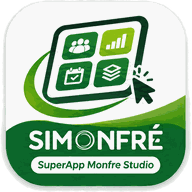
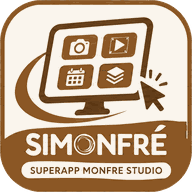
Add files via upload

diff --git a/index.html b/index.html
@@ -7,14 +7,14 @@
 <meta name="description" content="Nota digital Monfre Studio, Lamongan. www.monfrestudio.com">
 <meta property="og:title" content="Nota Digital Monfre Studio">
 <meta property="og:description" content="Nota digital Monfre Studio, Lamongan. www.monfrestudio.com">
-<meta property="og:image" content="https://si-monfre.github.io/icon.png?v=2">
+<meta property="og:image" content="https://si-monfre.github.io/icon.png?v=3">
 <meta property="og:type" content="website">
 <meta property="og:site_name" content="Monfre Studio">
 <meta name="theme-color" content="#8a5a2b">
[1 lines of base64/hex data omitted]
-<link rel="icon" type="image/png" sizes="192x192" href="icon-192.png?v=2">
-<link rel="icon" type="image/png" sizes="512x512" href="icon.png?v=2">
-<link rel="apple-touch-icon" href="icon-192.png?v=2">
[1 lines of base64/hex data omitted]
+<link rel="icon" type="image/png" sizes="192x192" href="icon-192.png?v=3">
+<link rel="icon" type="image/png" sizes="512x512" href="icon.png?v=3">
+<link rel="apple-touch-icon" href="icon-192.png?v=3">
 <link rel="manifest" href="manifest.webmanifest">
 <style>
   html,body{margin:0;height:100%;background:#faf7f2;font-family:system-ui,-apple-system,'Segoe UI',Roboto,sans-serif}
@@ -24,7 +24,7 @@
 </style>
 </head>
 <body>
-<div id="loading"><div><img src="logo.png?v=2" alt="Monfre Studio"><br><small id="msg">Memuat aplikasi...</small></div></div>
+<div id="loading"><div><img src="logo.png?v=3" alt="Monfre Studio"><br><small id="msg">Memuat aplikasi...</small></div></div>
 <!-- URL Aplikasi Web Apps Script SIMONFRÉ (deployment aktif) -->
 <iframe id="app" src="https://script.google.com/macros/s/AKfycbzeJGj5eF_MBaNJWPkCJysB2p0PLfp4i1ur4UyASo8RHzivRJxMFlIRzGyBsU-N7NhX/exec"
   allow="clipboard-write" onload="document.getElementById('loading').style.display='none'"></iframe>
